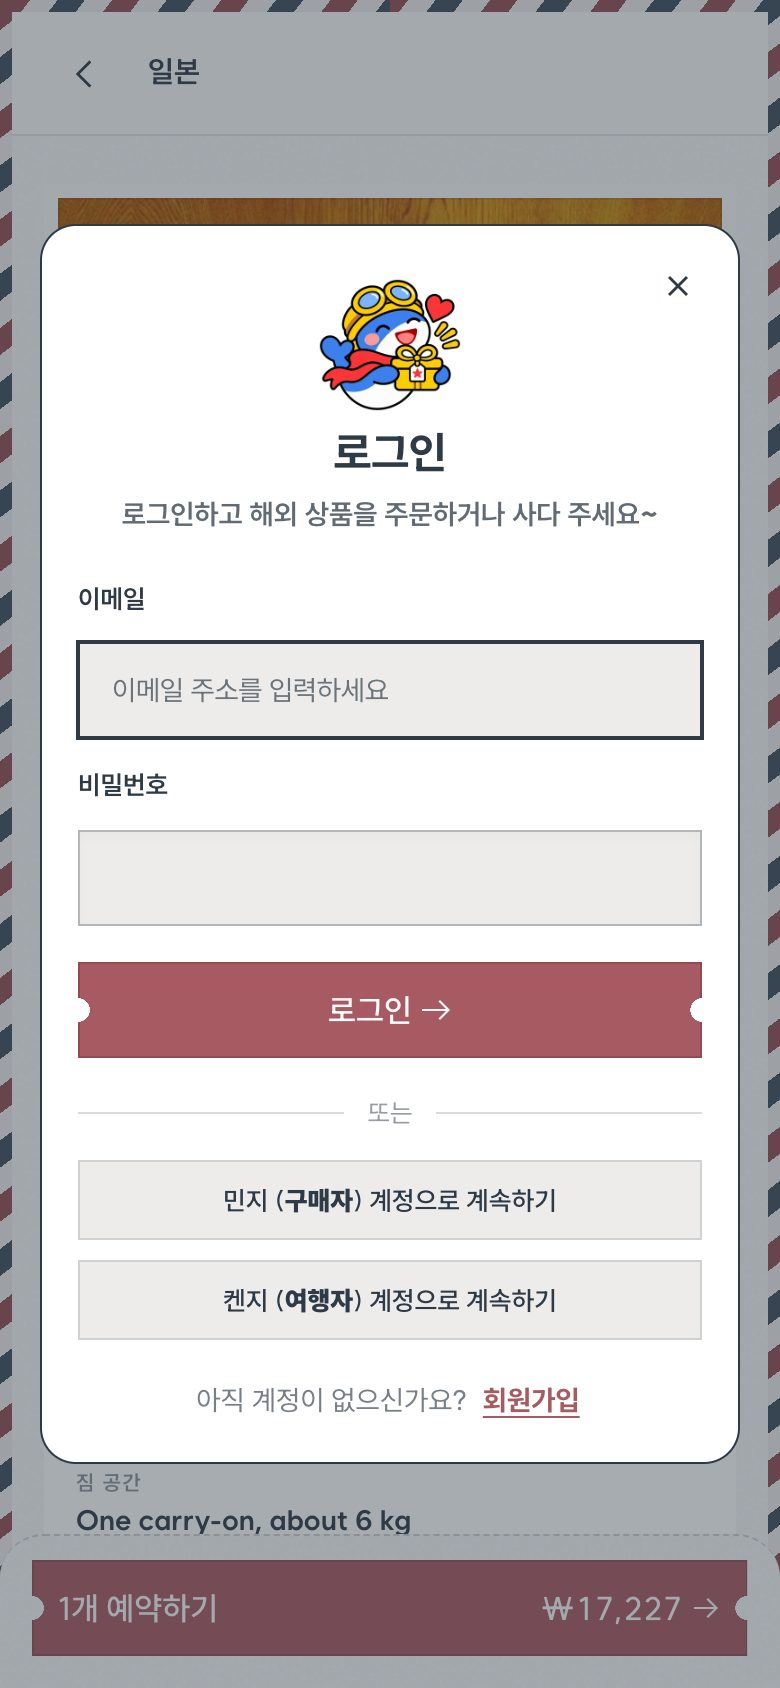
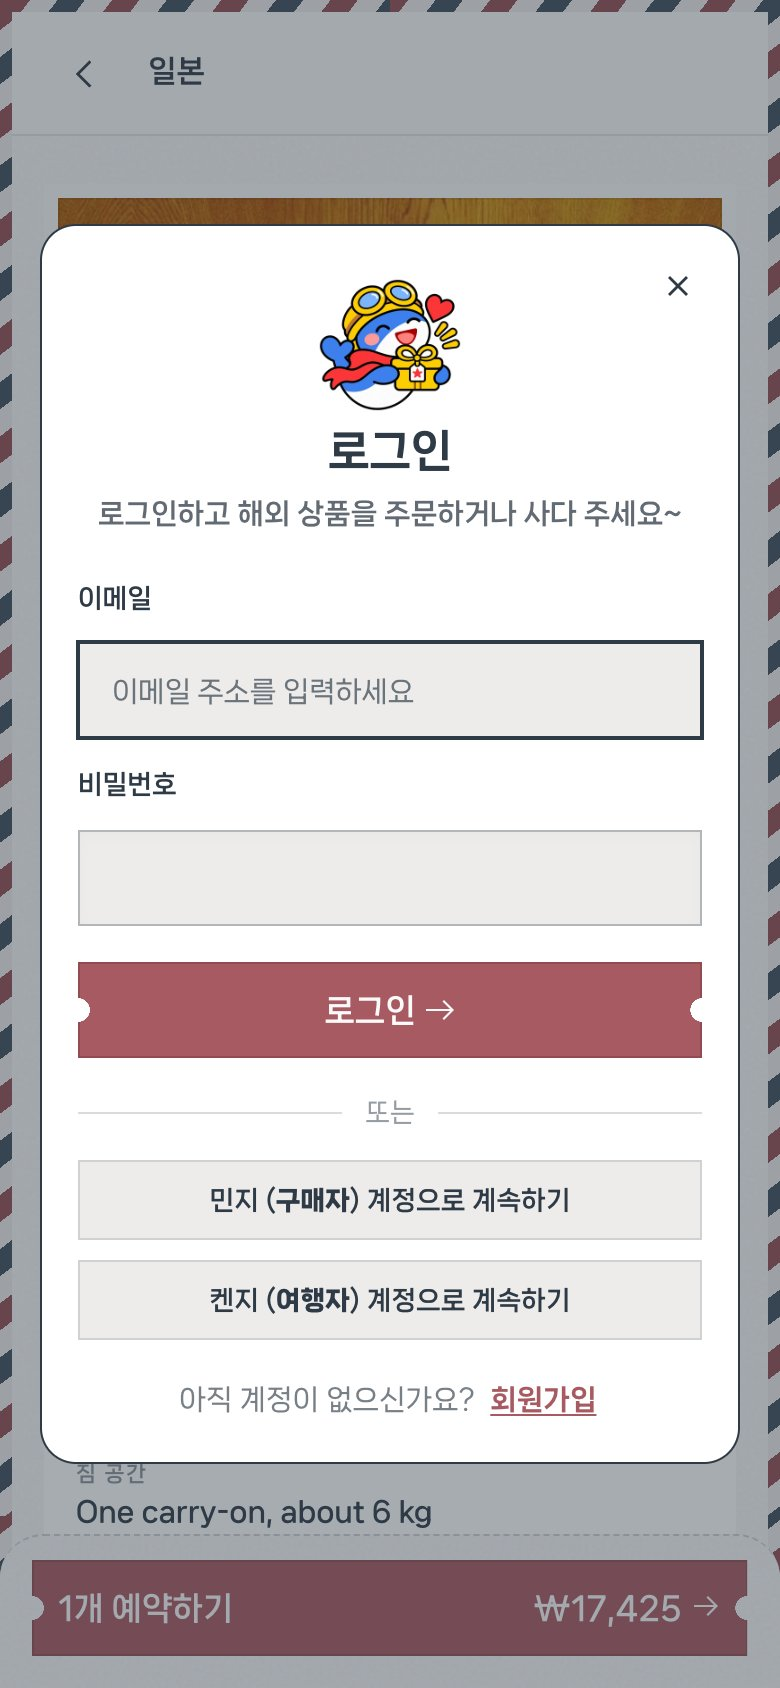
edited

diff --git a/frontend/src/components/FitText.tsx b/frontend/src/components/FitText.tsx
@@ -3,7 +3,7 @@ import { useEffect } from 'react';
 export const FIT_SELECTOR = [
   'h1', 'h2', 'h3', 'h4', '.eyebrow', '.btn', '[role="tab"]', '.chip',
   '.mobile-nav-item > span', '.nav-dropdown-item', '.filter-toggle', '.lf-chips button',
-  '.meta-label', '.meta-value', '.kt-btn', '.empty-title', '.cf-title', '.kt-won', '.top10-won', '.top10-price', '.kt-item-line strong', '.od-pass-route strong', '.od-pass-route span', '.od-price-stub strong', '.od-pass-fields div:not(.is-wide) dd', '.od-pass-who p', '.meta-sub', '.od-fact-sub', '.person p', '.person small', '.route-chip', '.request-meta span', '.row-meta span', '.request-left', '.request-by', '.chat-link .grow > b', '.chat-link .grow > small', '.od-next', '.ob-btn', '.top10-name', '.kt-shortcut > span', '.kt-profile-text p',
+  '.meta-label', '.meta-value', '.kt-btn', '.empty-title', '.cf-title', '.kt-won', '.top10-won', '.top10-price', '.kt-item-line strong', '.od-pass-route strong', '.od-pass-route span', '.od-price-stub strong', '.od-pass-fields div:not(.is-wide) dd', '.od-pass-who p', '.meta-sub', '.od-fact-sub', '.person p', '.person small', '.route-chip', '.request-meta span', '.row-meta span', '.request-left', '.request-by', '.chat-link .grow > b', '.chat-link .grow > small', '.od-next', '.ob-btn', '.top10-name', '.kt-shortcut > span', '.kt-profile-text p', '.country-picker-langs .country-picker-name',
 ].join(',');
 
 const SOFT_SELECTOR = 'p, span, small, b, strong, em, a, label, dt, dd, li, td, th, button, figcaption, legend';

diff --git a/frontend/src/format.ts b/frontend/src/format.ts
@@ -57,10 +57,18 @@ export const approx = (lang: Lang) => APPROX[lang];
 
 const ALL_LABEL: Record<Lang, string> = { ko: '전체 국가', en: 'All countries', ja: 'すべての国', vi: 'Tất cả quốc gia', id: 'Semua negara' };
 
+const SHORT_NAMES: Partial<Record<Lang, Record<string, string>>> = {
+  ja: { US: 'アメリカ', HK: '香港' },
+  vi: { HK: 'Hồng Kông' },
+  id: { HK: 'Hong Kong' },
+};
+
 export function countryLabel(c: { code: string; name: string; nameKo: string }, lang: Lang): string {
   if (c.code === ALL_COUNTRIES) return ALL_LABEL[lang];
   if (lang === 'ko') return c.nameKo;
   if (lang === 'en') return c.name;
+  const short = SHORT_NAMES[lang]?.[c.code];
+  if (short) return short;
   try {
     return new Intl.DisplayNames([localeOf(lang)], { type: 'region' }).of(c.code) ?? c.name;
   } catch {
